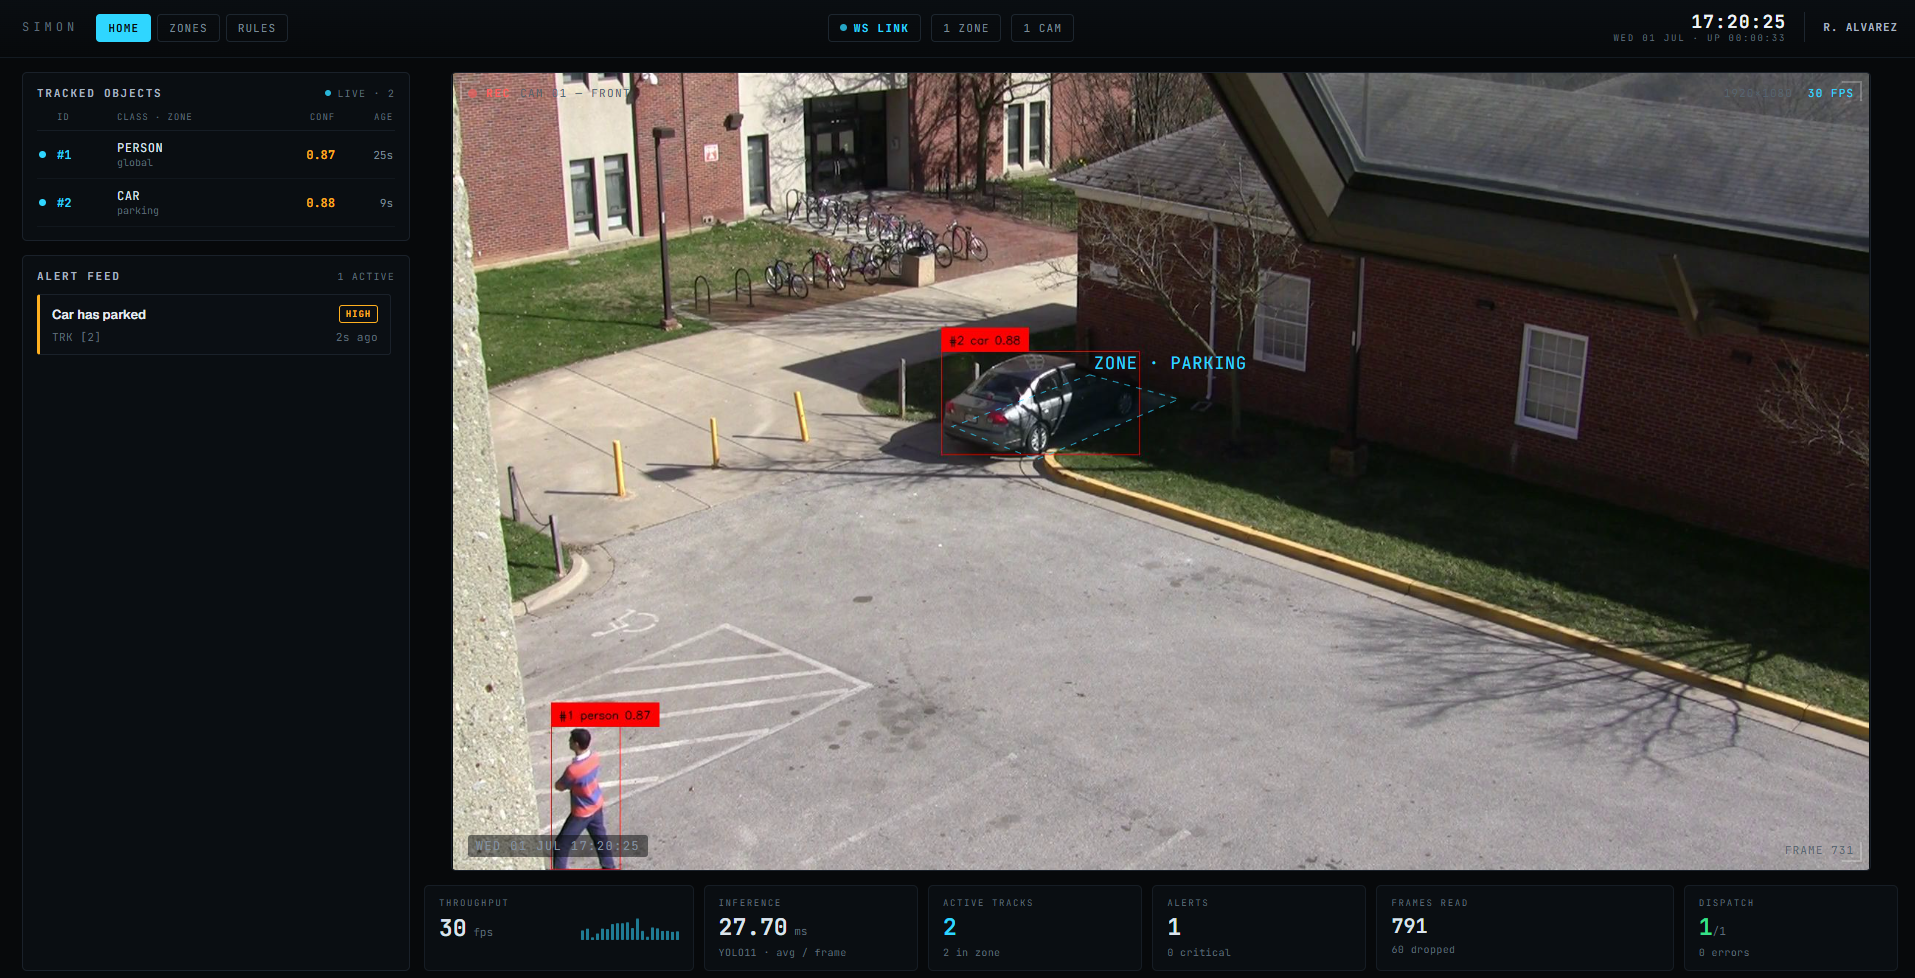
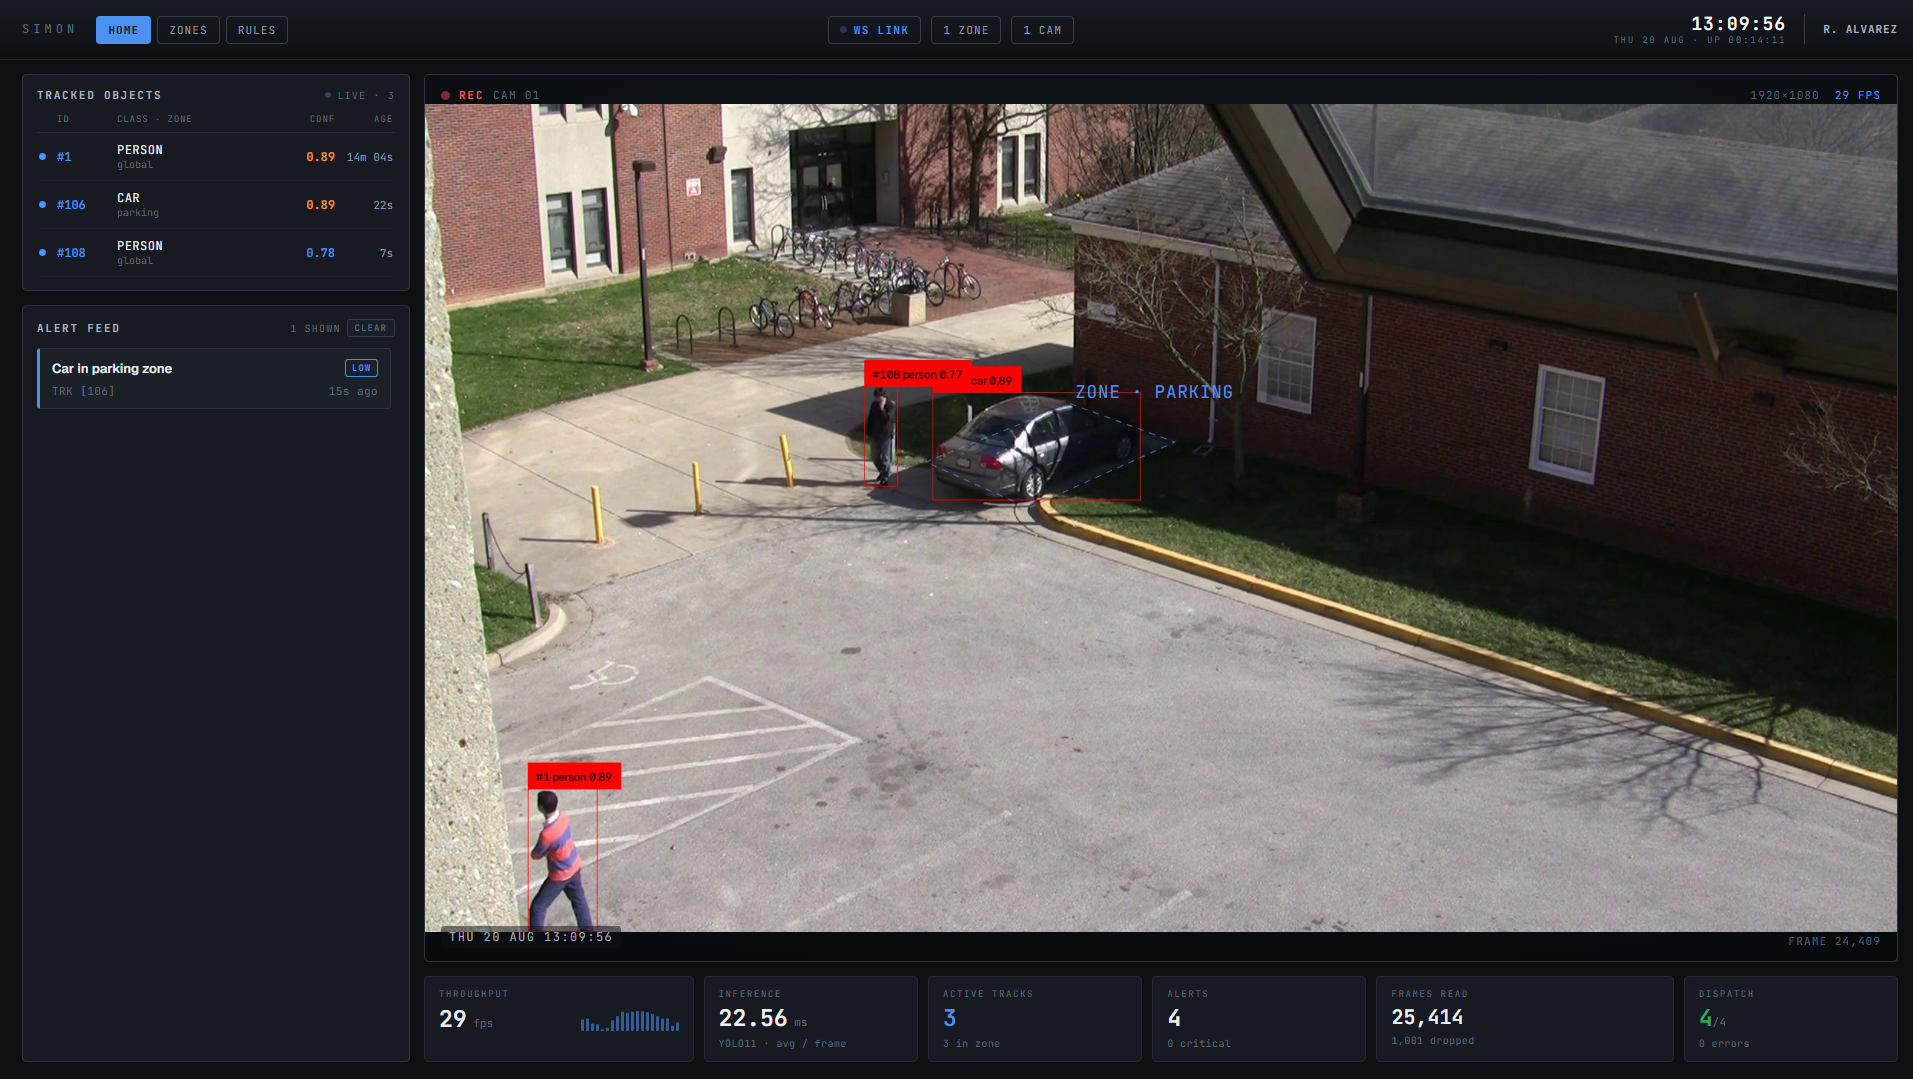
image updates

diff --git a/README.md b/README.md
@@ -14,7 +14,9 @@ If you prefer a bare-metal setup — [Running from source](#running-from-source)
 ![Zone Editor](docs/images/zone_view.png)
 
 ### Rule Editor
-![Rule Editor](docs/images/rule_view.png)
+![Rule Editor](docs/images/rule_view1.png)
+![Rule Editor](docs/images/rule_view2.png)
+![Rule Editor](docs/images/rule_view3.png)
 
 ## Installation (Docker)
 
